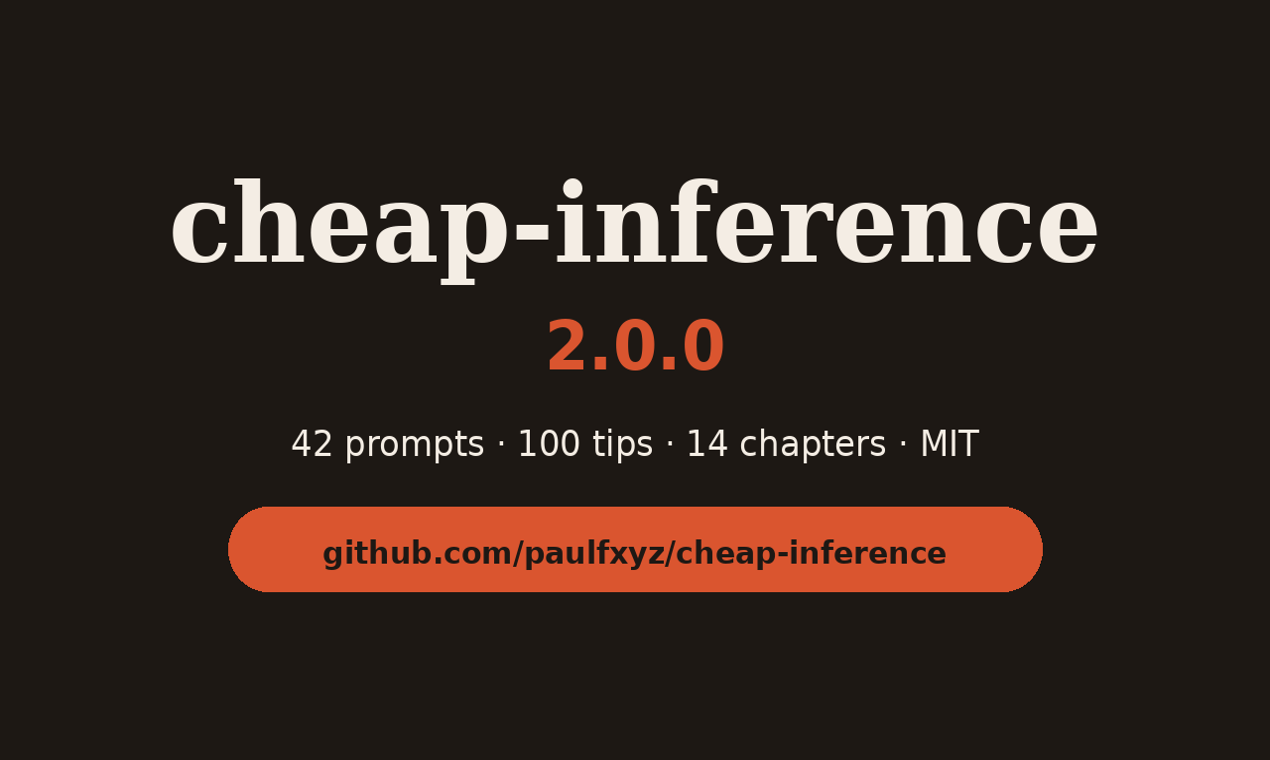
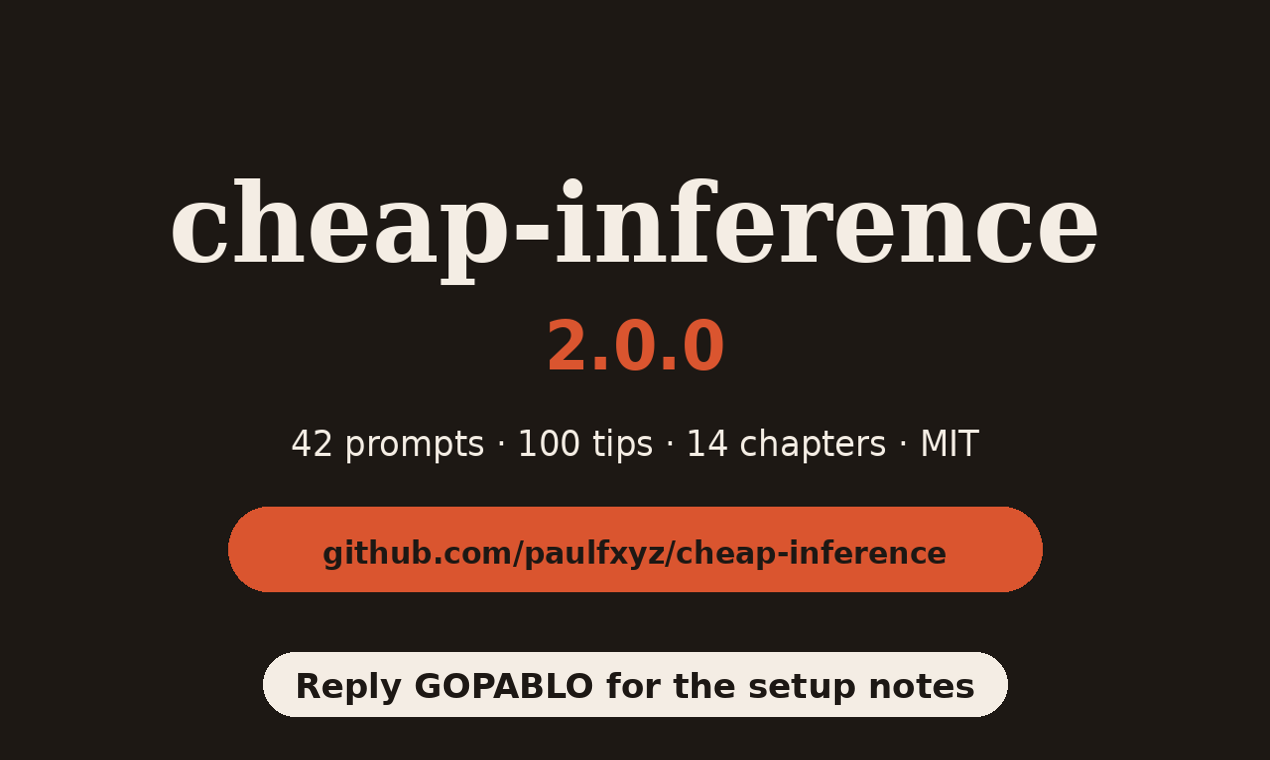
Product Hunt gallery: add GOPABLO tag to the closing image

Changed region(s): [[0.1843, 0.8474, 0.7984, 0.9684]]

diff --git a/social-kit/producthunt/producthunt.md b/social-kit/producthunt/producthunt.md
@@ -32,7 +32,7 @@ Open Source, Artificial Intelligence, Developer Tools, GitHub
 1. `gallery-1-hook.png` - "Your AI bill is not your question."
 2. `gallery-2-zero-tokens.png` - 13 tools, 0 tokens, a false quote caught
 3. `gallery-3-ladder.png` - the cheap-first ladder
-4. `gallery-4-cta.png` - cheap-inference 2.0.0
+4. `gallery-4-cta.png` - cheap-inference 2.0.0, with a "Reply GOPABLO" tag at the bottom
 5. Optional video: `../video/cheap-inference-cover.mp4`
 
 ## Maker's first comment
